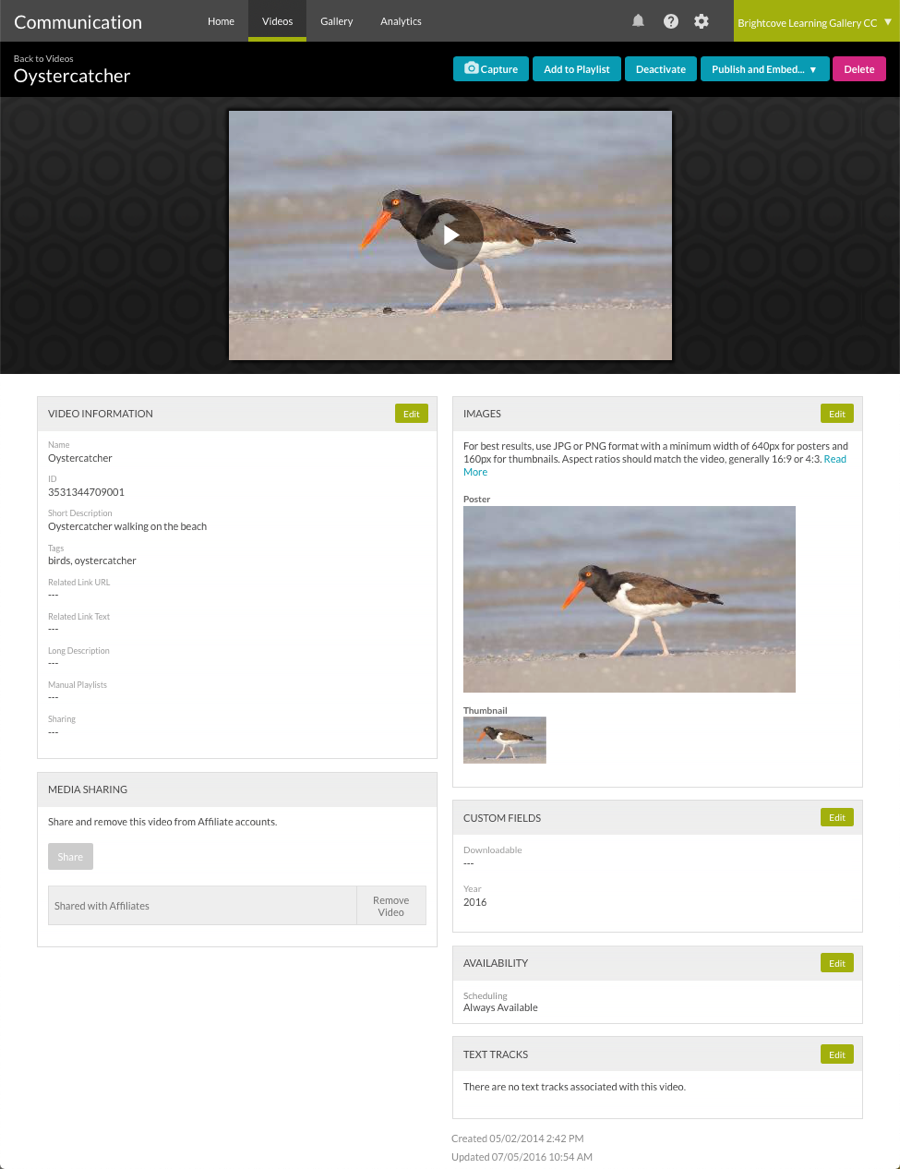
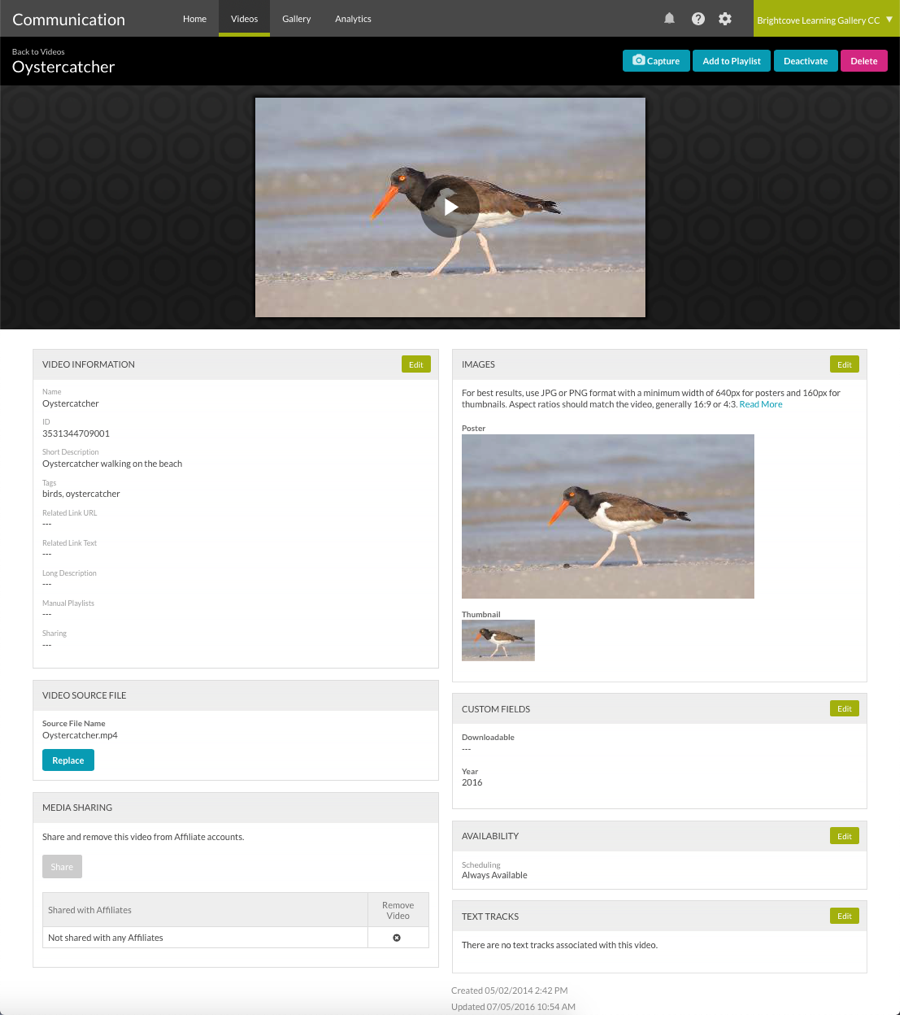
add content for replace source file

diff --git a/videos/editing-video-properties.html b/videos/editing-video-properties.html
@@ -28,6 +28,7 @@
     <ul>
       <li><a href="#videoinfo">Video Information</a></li>
       <li><a href="#images">Images</a></li>
+      <li><a href="#source_file">Video Source File</a></li>
       <li><a href="#custom">Custom Fields</a></li>
       <li><a href="#availability">Availability</a></li>
       <li><a href="#texttracks">Text Tracks</a></li>
@@ -68,6 +69,12 @@
     <h2 id="images">Images</h2>
     <p>The Images section displays the poster and thumbnail images for the video. Poster and thumbnail images are created automatically by taking a snapshot from the source video at the midway point. If you don't like the default images that were captured, you can <a href="capturing-poster-and-thumbnail-images.html">capture new images</a> or <a href="uploading-poster-and-thumbnail-images.html">upload other images</a> to use as the poster and thumbnail.</p>
     <figure class="bcls-figure"><img class="bcls-image--no-border" alt="" src="/corp-comm/images/videos/video-properties-images.png" /></figure>
+  </section>
+  <section class="bcls-section">
+    <h2 id="source_file">Video Source File</h2>
+    <p>The Video Source File section can be used to replace the video source file. This is useful when the source file has been edited after it was uploaded. Replacing the source file will retain all existing video metadata and  analytics that have been captured.</p>
+    <figure class="bcls-figure"><img class="bcls-image--no-border" alt="" src="/corp-comm/images/videos/video-properties-replace-source.png" /></figure>
+    <p>To replace the source file, click <strong>Replace </strong> and browse and select the new source file. Note that the source file cannot be replaced for videos that have been shared to the account.</p>
   </section>
   <section class="bcls-section">
     <h2 id="custom">Custom Fields</h2>
